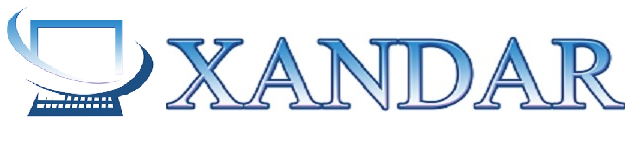
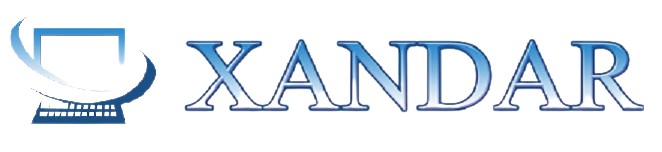
cambiando colores del navbar

Changed region(s): [[0.0, 0.0851, 0.9921, 0.8511], [0.0902, 0.539, 0.1203, 0.5674]]

diff --git a/assets/side/css/style.css b/assets/side/css/style.css
@@ -333,14 +333,17 @@ p [style*='max-width'] {
 */
 .brand {
 	display: inline-block;
+
 }
 
 .brand .brand-logo-light {
 	display: none;
+	
 }
 
 .brand .brand-logo-dark {
-	display: block;
+	display: flex;
+
 }
 
 /*
@@ -654,7 +657,7 @@ a[href*='tel'], a[href*='mailto'] {
 .main-decorated-box:before {
 	content: '';
 	position: absolute;
-	background: url("../../img/xandar.png") no-repeat center center;
+	background: url("../../img/xandar2.png") no-repeat center center;
 	background-size: contain;
 	width: 100%;
 	height: 100%;
@@ -5943,7 +5946,7 @@ html.tablet .ui-to-top {
 }
 
 .rd-navbar-brand a {
-	display: block;
+	display: flex;
 }
 
 .rd-navbar-search {
@@ -6016,7 +6019,7 @@ html.tablet .ui-to-top {
 }
 
 .rd-navbar-main-outer .rd-search .form-wrap .form-input {
-	background-color: #224e80;
+	background-color: #4293d0;
 	border-color: #224e80;
 	padding-left: 10px;
 }
@@ -6436,6 +6439,7 @@ html.tablet .ui-to-top {
 	text-align: left;
 	font-size: 22px;
 	line-height: 46px;
+	
 }
 
 .rd-navbar-fixed .rd-navbar-brand img {
@@ -6443,6 +6447,9 @@ html.tablet .ui-to-top {
 	max-height: 58px;
 	width: auto;
 	height: auto;
+	box-shadow: 0px 48px 64px -27px rgba(0,0,0,0.75);
+	-webkit-box-shadow: 0px 48px 64px -27px rgba(0,0,0,0.75);
+	-moz-box-shadow: 0px 48px 64px -27px rgba(0,0,0,0.75);
 }
 
 @media (min-width: 576px) {

diff --git a/assets/side/css/bootstrap.css b/assets/side/css/bootstrap.css
@@ -7897,7 +7897,10 @@ button.close {
 	color: #ffffff !important;
 }
 .text-blue-xandar {
-	color: #224e80 !important;
+	color: #1c4d82;
+}
+.background-blue-xandar {
+	background-color: #4293d0 !important;
 }
 
 .text-body {

diff --git a/application/views/page.php b/application/views/page.php
@@ -97,7 +97,7 @@
                             </ul>
                         </div>
                     </div>
-                    <div class="rd-navbar-main-outer">
+                    <div class="rd-navbar-main-outer background-blue-xandar">
                         <div class="rd-navbar-main">
                             <!--RD Navbar Panel-->
                             <div class="rd-navbar-panel">
@@ -137,11 +137,11 @@
                 <div class="row justify-content-center">
                     <div class="col-xl-8 col-12">
                         <div class="main-decorated-box text-center text-xl-left">
-                            <h1 class=" text-xl-center text-blue-xandar wow slideInRight" data-wow-delay=".3s"><span
+                            <h1 class=" text-xl-center text-blue-xandar wow slideInRight"  data-wow-delay=".3s" ><span
                                     class="align-top offset-top-30 d-inline-block font-weight-light prefix-text">la</span><span
                                     class="big font-weight-bold d-inline-flex offset-right-170">mejor</span><span
                                     class="biggest d-block d-xl-flex font-weight-bold">Solución.</span></h1>
-                            <div class="decorated-subtitle text-italic text-blue-xandar wow slideInLeft">en software de inventario                             
+                            <div class="decorated-subtitle text-italic text-blue-xandar  wow slideInLeft">en software de inventario                             
                                 
                             </div>
                         </div>
